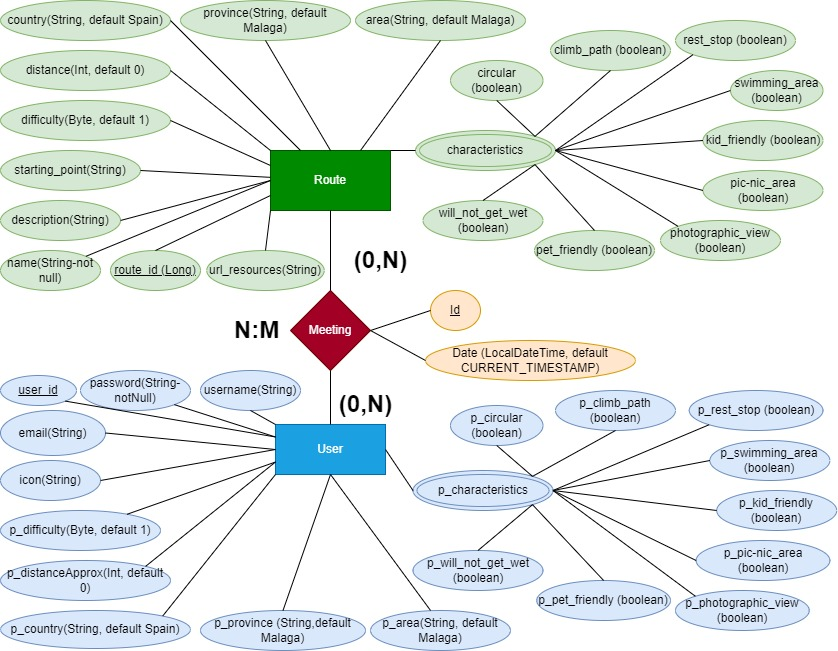
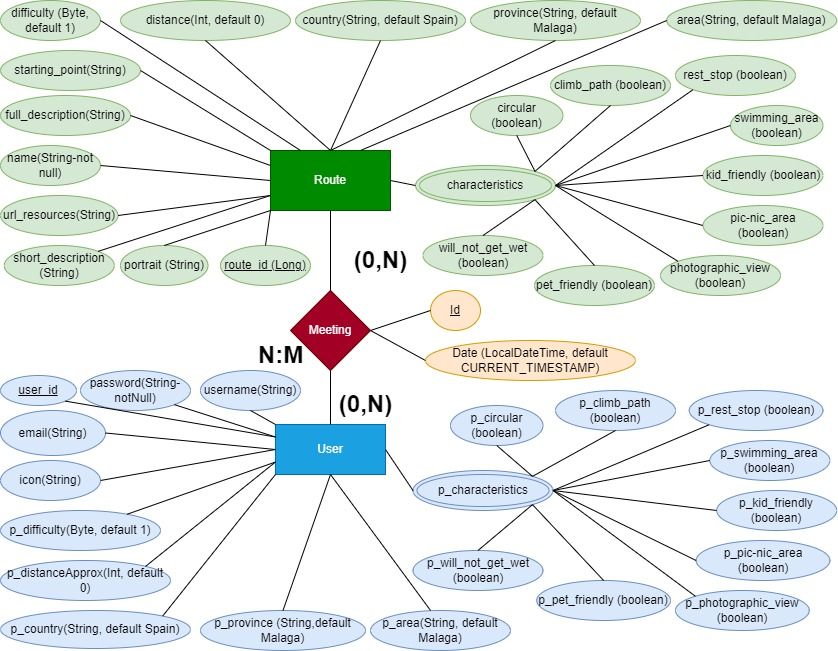
wip: Route and User objects
Model, repository, service and controller.

Changed region(s): [[0.0, 0.0, 1.0, 0.4916], [0.2792, 0.4916, 0.3723, 0.553], [0.3723, 0.1843, 0.4033, 0.2458]]

diff --git a/spring_boot/src/main/java/com/esplai/meet2trek/model/User.java b/spring_boot/src/main/java/com/esplai/meet2trek/model/User.java
@@ -1,0 +1,47 @@
+package com.esplai.meet2trek.model;
+
+import jakarta.persistence.Entity;
+import jakarta.persistence.GeneratedValue;
+import jakarta.persistence.GenerationType;
+import jakarta.persistence.Id;
+import jakarta.validation.constraints.NotBlank;
+import lombok.AllArgsConstructor;
+import lombok.Getter;
+import lombok.NoArgsConstructor;
+import lombok.Setter;
+
+@Entity
+@AllArgsConstructor
+@NoArgsConstructor
+@Getter
+@Setter
+public class User {
+    @Id
+    @GeneratedValue(strategy = GenerationType.IDENTITY)
+    private Long user_id;
+    @NotBlank
+    private String username;
+    @NotBlank
+    private String password;
+    @NotBlank
+    private String email;
+    private String icon;
+    private String slogan;
+    private String about_me;
+    private Byte preferred_difficulty;
+    private int preferred_distance;
+    // Compuesto
+    private String preferred_country;
+    private String preferred_province;
+    private String preferred_area;
+    // Otro compuesto
+    private boolean prefer_circular;
+    private boolean prefer_climb_path;
+    private boolean prefer_rest_stop;
+    private boolean prefer_swimming_area;
+    private boolean prefer_kid_friendly;
+    private boolean prefer_picnic_area;
+    private boolean prefer_photographic_view;
+    private boolean prefer_pet_friendly;
+    private boolean prefer_will_not_get_wet;
+}

diff --git a/spring_boot/src/main/java/com/esplai/meet2trek/model/Route.java b/spring_boot/src/main/java/com/esplai/meet2trek/model/Route.java
@@ -1,0 +1,43 @@
+package com.esplai.meet2trek.model;
+
+import jakarta.persistence.Entity;
+import jakarta.persistence.GeneratedValue;
+import jakarta.persistence.GenerationType;
+import jakarta.persistence.Id;
+import jakarta.validation.constraints.NotBlank;
+import lombok.*;
+
+@Entity
+@AllArgsConstructor
+@NoArgsConstructor
+@Getter @Setter
+public class Route {
+    @Id
+    @GeneratedValue(strategy = GenerationType.IDENTITY)
+    private Long route_id;
+    @NotBlank
+    private String name;
+    @NotBlank
+    private String short_description;
+    private String portrait;
+    private String resources;
+    private String full_description;
+    @NotBlank
+    private String starting_point;
+    private Byte difficulty;
+    private int distance;
+    //Tiene que ser compuesto
+    private String country;
+    private String province;
+    private String area;
+    //Otro compuesto
+    private boolean circular;
+    private boolean climb_path;
+    private boolean rest_stop;
+    private boolean swimming_area;
+    private boolean kid_friendly;
+    private boolean picnic_area;
+    private boolean photographic_view;
+    private boolean pet_friendly;
+    private boolean will_not_get_wet;
+}

diff --git a/spring_boot/src/main/java/com/esplai/meet2trek/repository/RouteRepository.java b/spring_boot/src/main/java/com/esplai/meet2trek/repository/RouteRepository.java
@@ -1,0 +1,4 @@
+package com.esplai.meet2trek.repository;
+
+public interface RouteRepository {
+}

diff --git a/spring_boot/src/main/java/com/esplai/meet2trek/repository/UserRepository.java b/spring_boot/src/main/java/com/esplai/meet2trek/repository/UserRepository.java
@@ -1,0 +1,4 @@
+package com.esplai.meet2trek.repository;
+
+public interface UserRepository {
+}

diff --git a/spring_boot/src/main/java/com/esplai/meet2trek/controller/RouteController.java b/spring_boot/src/main/java/com/esplai/meet2trek/controller/RouteController.java
@@ -1,0 +1,4 @@
+package com.esplai.meet2trek.controller;
+
+public class RouteController {
+}

diff --git a/spring_boot/src/main/java/com/esplai/meet2trek/controller/UserController.java b/spring_boot/src/main/java/com/esplai/meet2trek/controller/UserController.java
@@ -1,0 +1,4 @@
+package com.esplai.meet2trek.controller;
+
+public class UserController {
+}

diff --git a/spring_boot/src/main/java/com/esplai/meet2trek/service/RouteService.java b/spring_boot/src/main/java/com/esplai/meet2trek/service/RouteService.java
@@ -1,0 +1,4 @@
+package com.esplai.meet2trek.service;
+
+public class RouteService {
+}

diff --git a/spring_boot/src/main/java/com/esplai/meet2trek/service/UserService.java b/spring_boot/src/main/java/com/esplai/meet2trek/service/UserService.java
@@ -1,0 +1,4 @@
+package com.esplai.meet2trek.service;
+
+public class UserService {
+}
